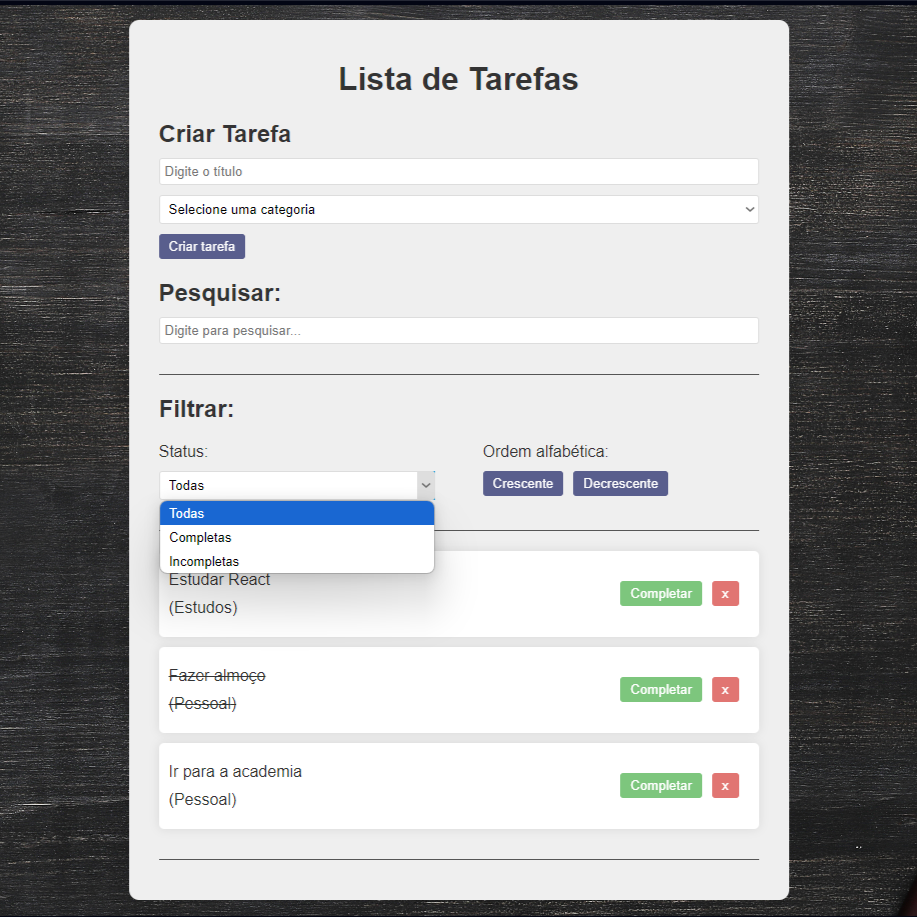
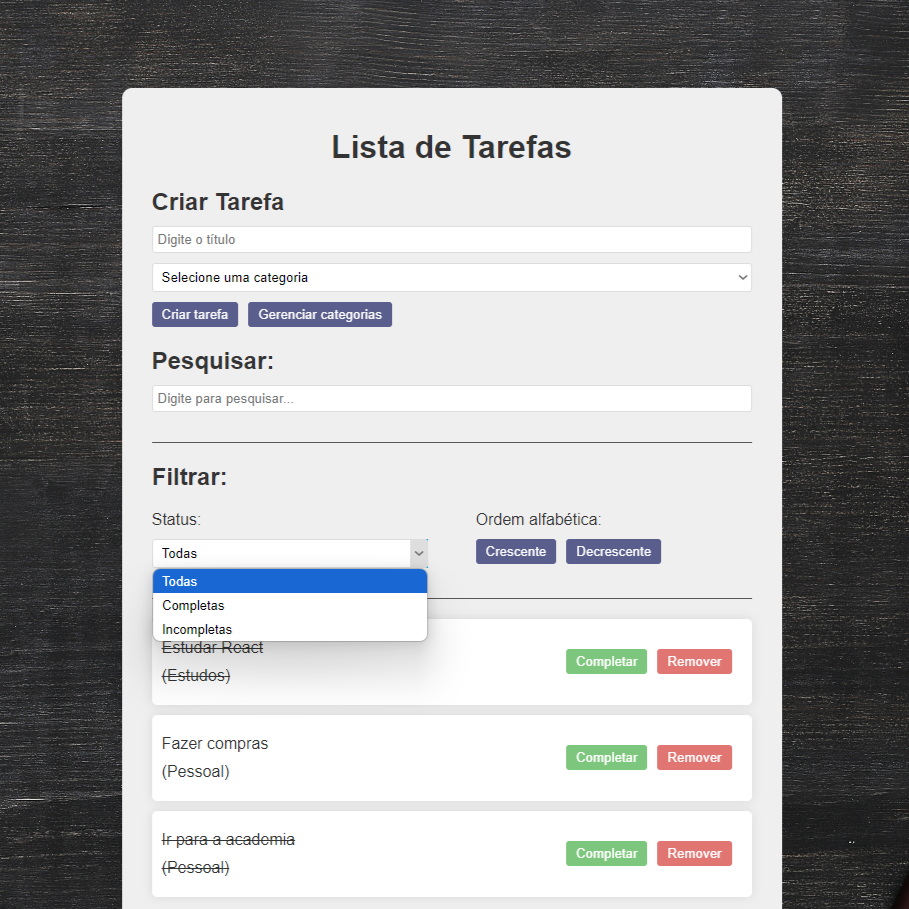
atualizar redme

Changed region(s): [[0.0, 0.0, 1.0, 1.0], [0.8625, 0.7393, 1.0, 0.9241], [0.3696, 0.154, 0.6469, 0.1848]]

diff --git a/README.md b/README.md
@@ -5,8 +5,9 @@
 </p>
 <br>
 
-## Imagem inicial da página:
+## Imagems da página:
 
 <p align="center">
-    <img src="./src/img/pagina.png" alt="home" width="500px">
+    <img src="./src/img/pagina.png" alt="home" width="400px">
+    <img src="./src/img/categorias.png" alt="home" width="400px">
 </p>
